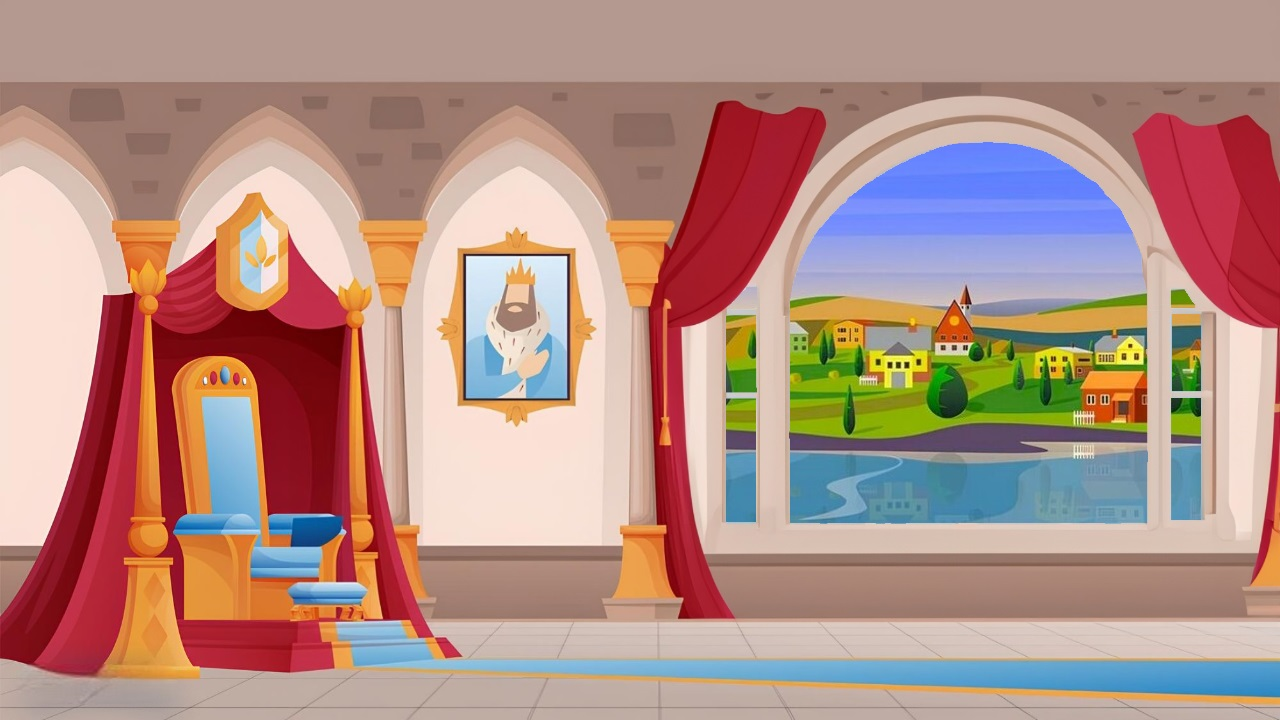
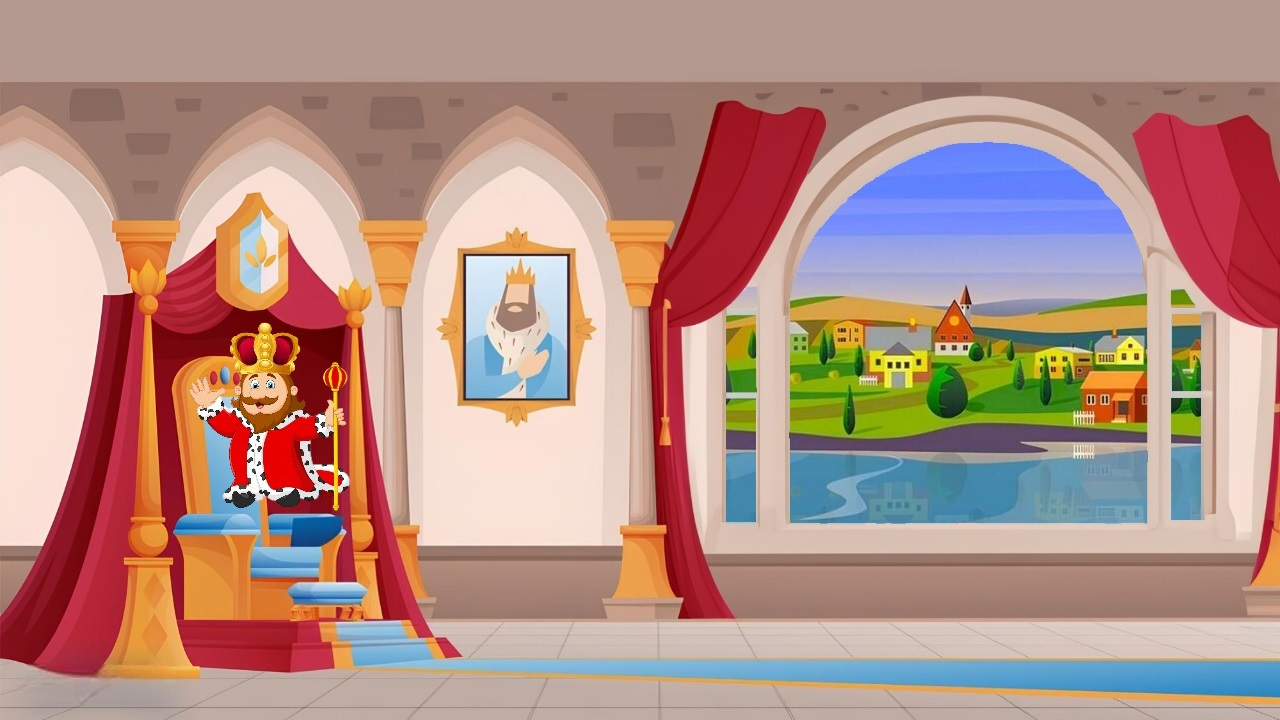
Remove player drawing code

Changed region(s): [[0.125, 0.4278, 0.2812, 0.7028]]

diff --git a/src/gameloop.ts b/src/gameloop.ts
@@ -11,7 +11,6 @@ let player = new Player(ctx);
 let date = new gameDate(1965, ctx);
 let scenario = new Scenario();
 let healthBar = new healBar(scenario, document.getElementById("healthFill"));
-
 canvas.width = (window.innerWidth/10)*9;
 
 var backgroundImageIndex = 0;
@@ -38,7 +37,6 @@ function clearCanvas() {
 function updateGame() {
   clearCanvas();
   date.drawDate();
-  player.drawPlayer();
   console.log(cloud.isCloudVisible);
   cloud.drawCloud();
   requestAnimationFrame(updateGame);

diff --git a/dist/player.js b/dist/player.js
@@ -8,9 +8,6 @@ var Player = /** @class */ (function () {
         this.ctx = ctx;
     }
     Player.prototype.drawPlayer = function () {
-        var img = new Image();
-        img.src = "../images/roi00.png";
-        this.ctx.drawImage(img, 120, 160, 250, 250);
     };
     Player.prototype.movePlayer = function (event) {
         switch (event.key) {

diff --git a/dist/gameloop.js b/dist/gameloop.js
@@ -32,7 +32,6 @@ function clearCanvas() {
 function updateGame() {
     clearCanvas();
     date.drawDate();
-    player.drawPlayer();
     console.log(cloud.isCloudVisible);
     cloud.drawCloud();
     requestAnimationFrame(updateGame);

diff --git a/src/player.ts b/src/player.ts
@@ -16,9 +16,7 @@ export class Player {
   }
 
   drawPlayer() {
-    var img = new Image();
-    img.src = "../images/roi00.png"; 
-    this.ctx.drawImage(img, 120, 160, 250, 250);
+
   }
 
   movePlayer(event: any) {
